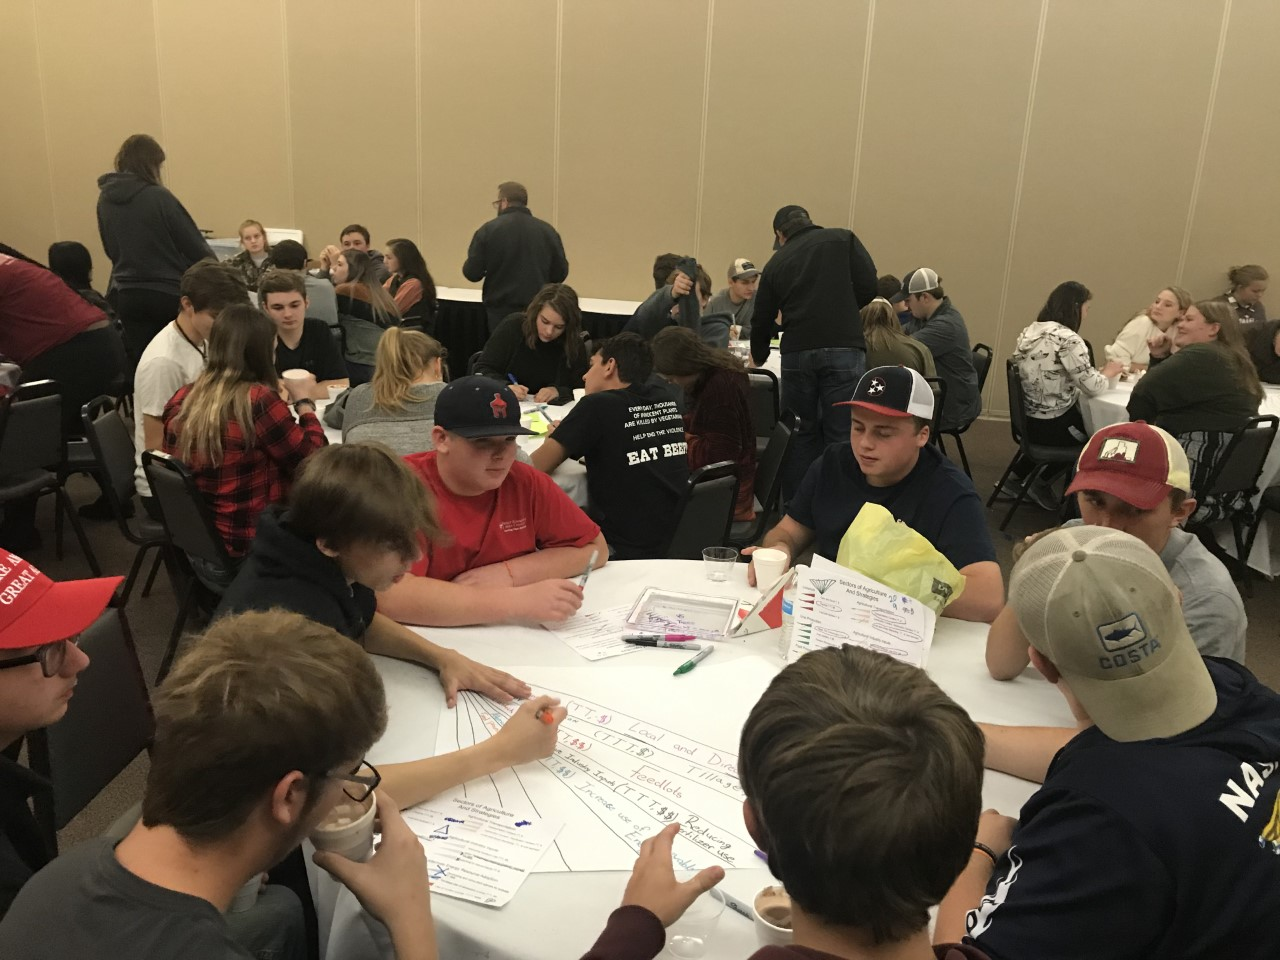
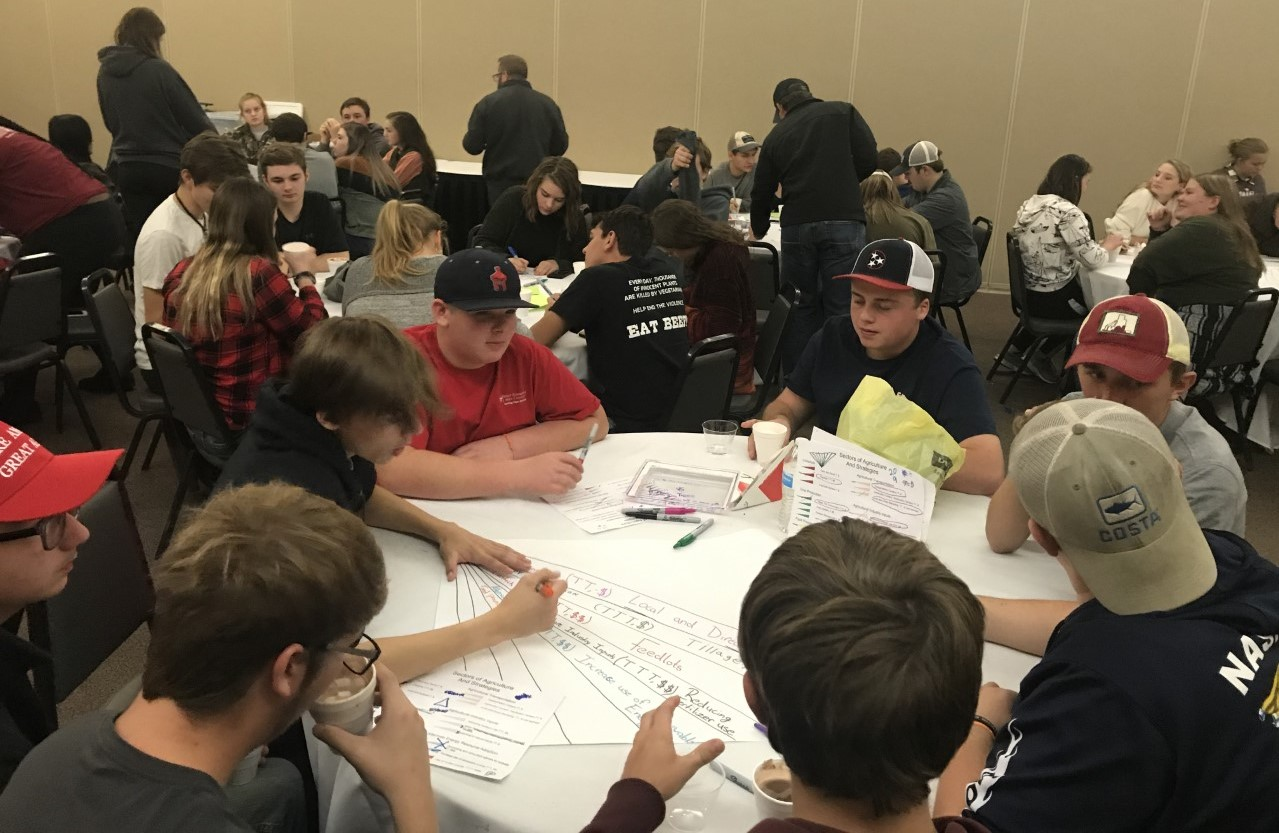
Worked to fix the new images in the carousel.

diff --git a/CSS/styles.css b/CSS/styles.css
@@ -27,8 +27,18 @@
     font-size: .3em;
 }
 
+/* Makes carousel move but images fit the screen width */
 .carousel-inner img{
     width: 100vw !important;
+}
+
+/* Makes carousel not move but images look strange */
+.carousel-item img{
+    display: block;
+    margin: auto;
+    width: auto;
+    height: 700px;
+    max-height: 700px;
 }
 
 #footer{
